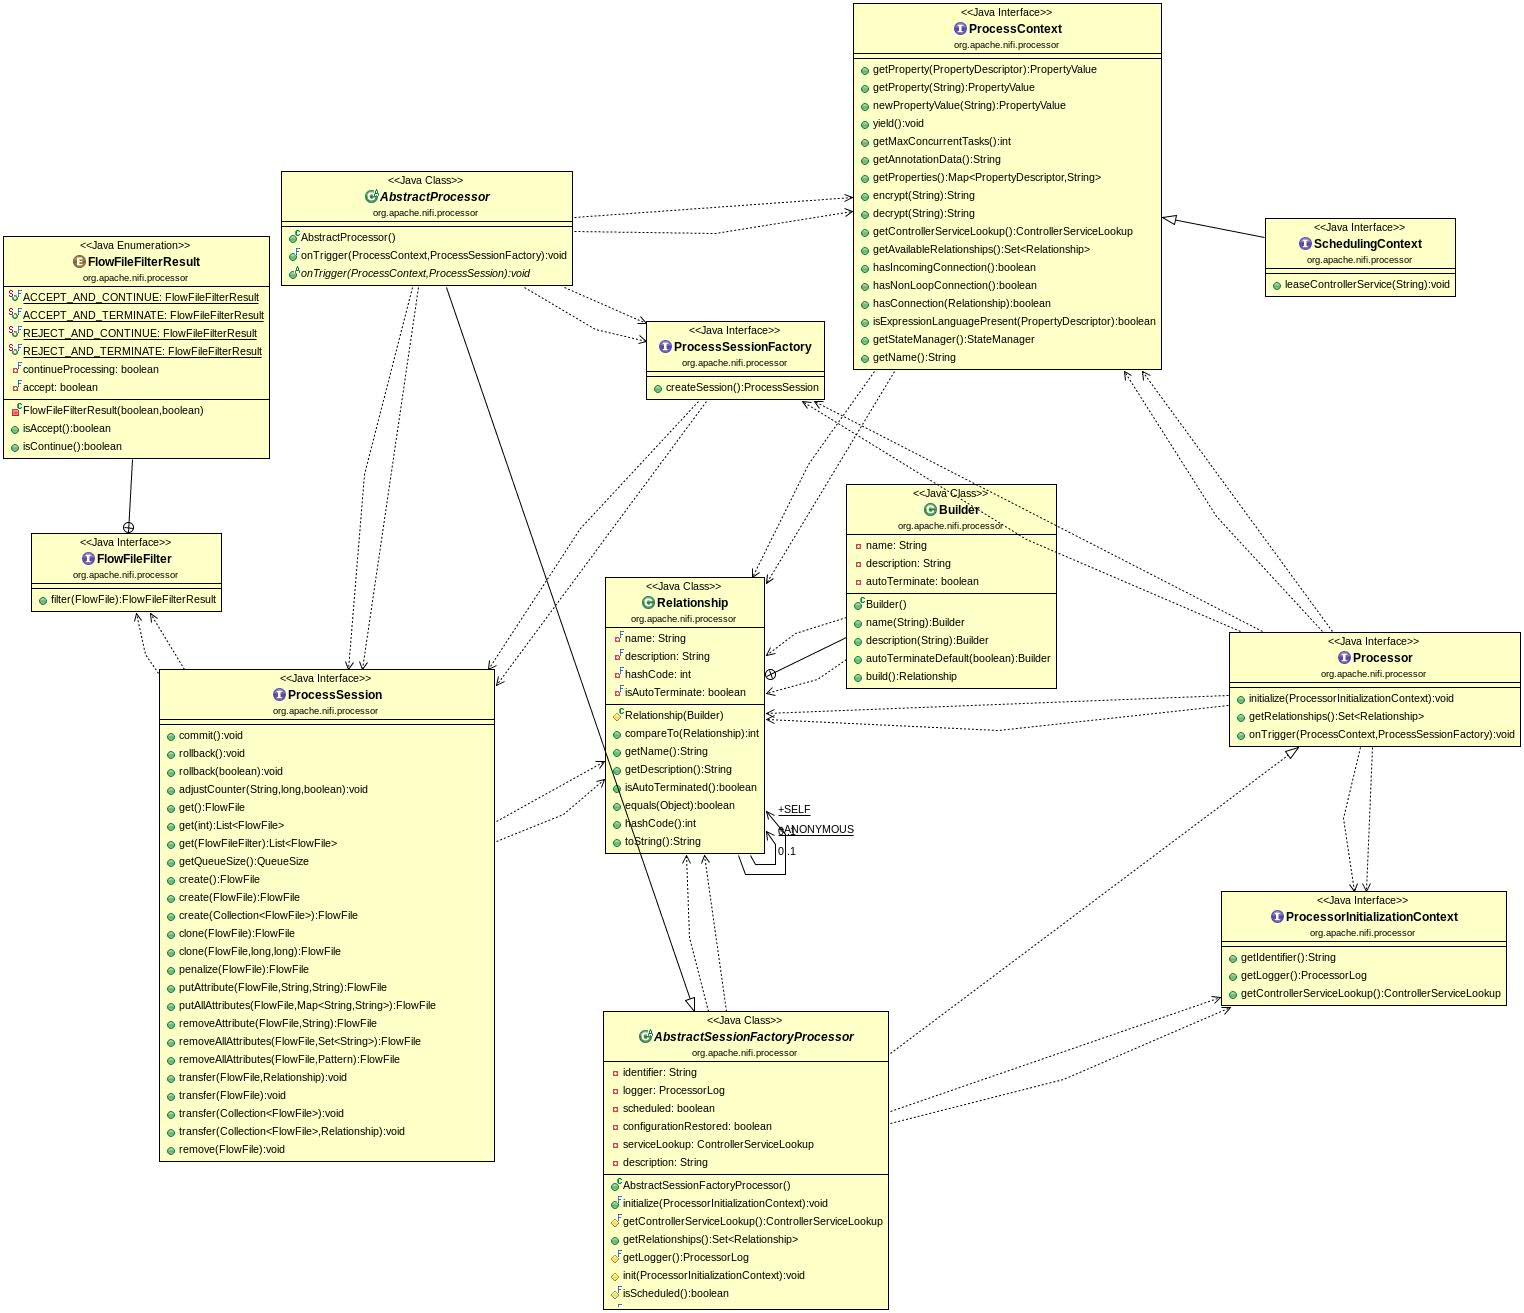
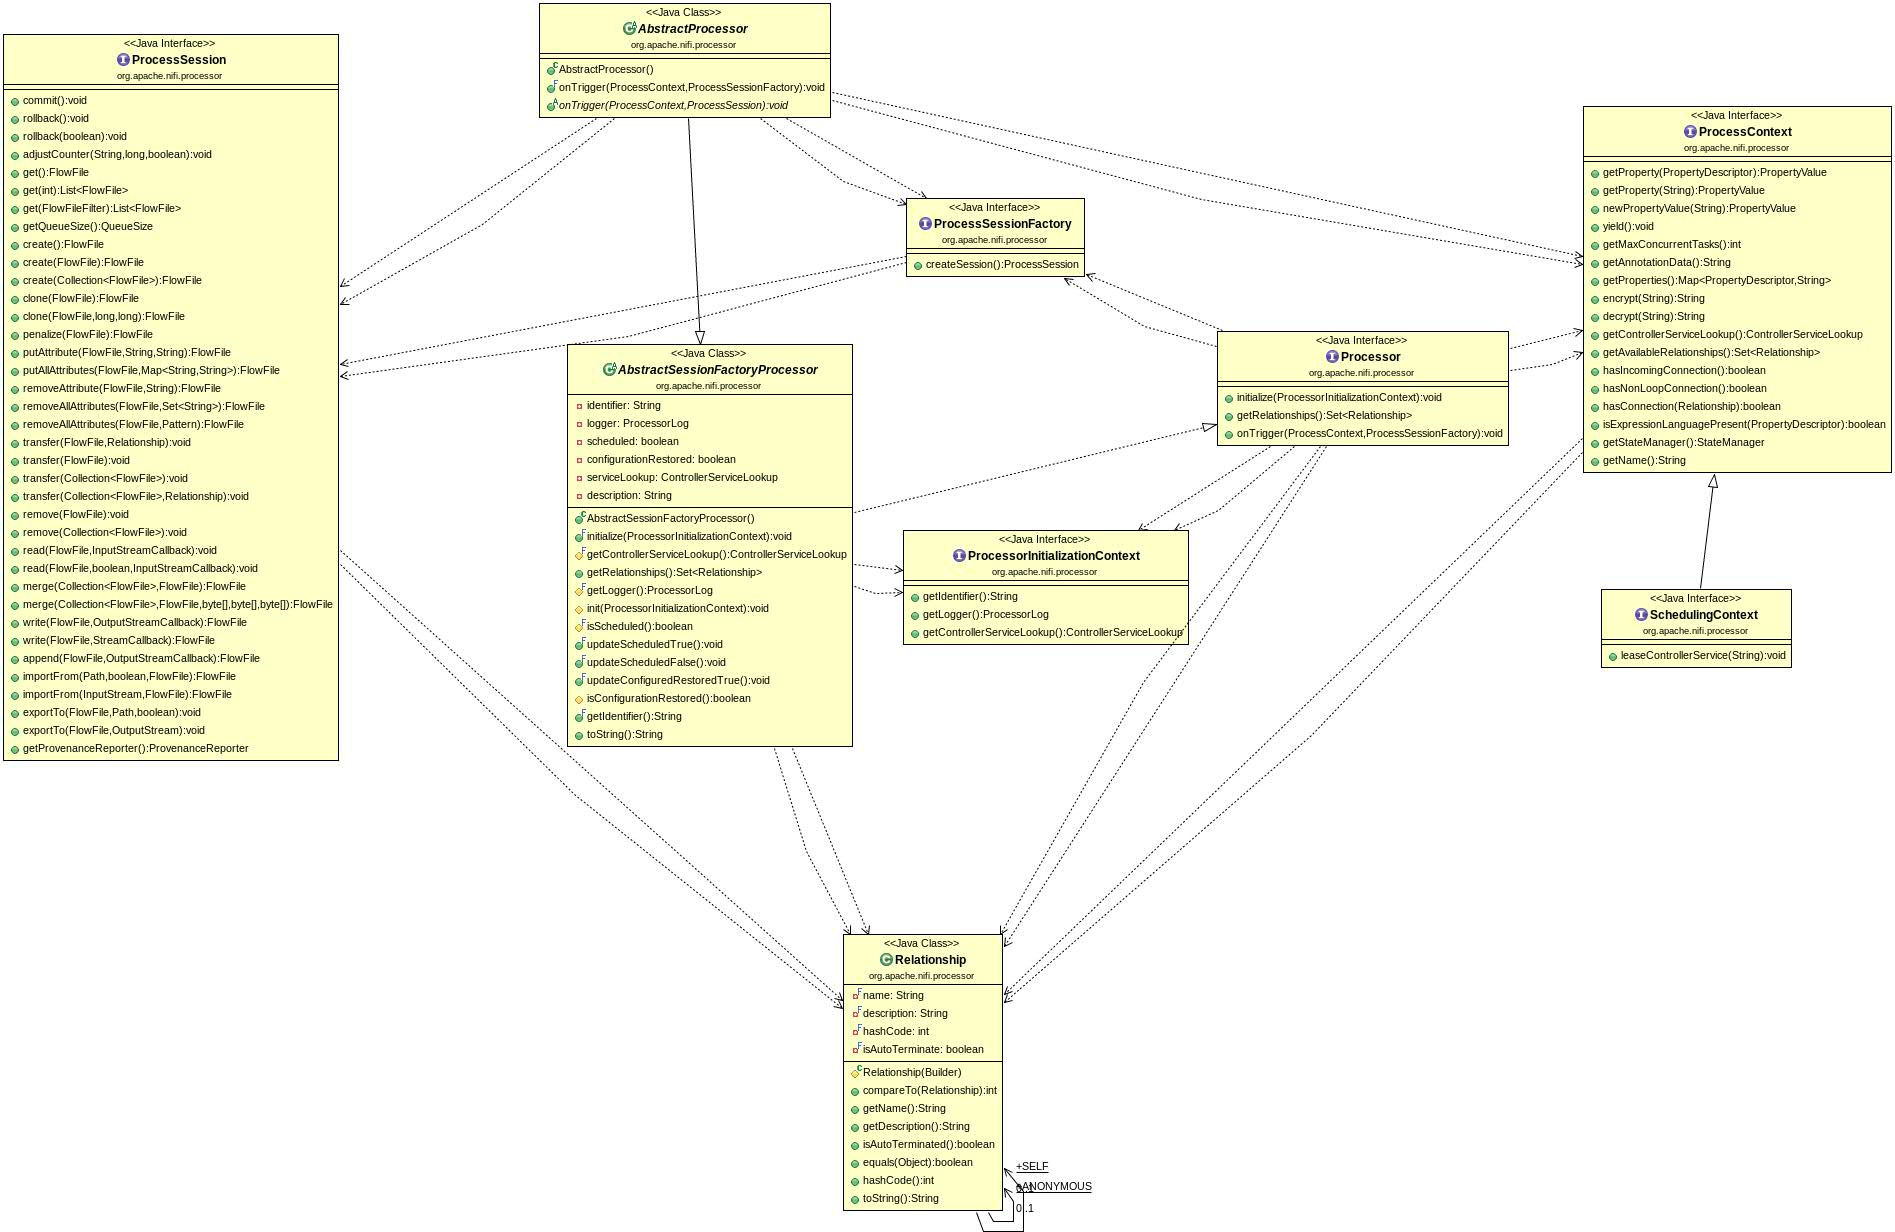
Class diagram explanation and development

diff --git a/ArchSW-docs/README_EN.md b/ArchSW-docs/README_EN.md
@@ -54,32 +54,55 @@ Since Nifi is a real complex system, in some diagrams we had to focus on the mos
 ####Logical View
 ######Class Diagram
 
-Has the class diagram is the moste complex of them all, we just focused on the processor api
+Classes:
+-------------------FlowFileFilter
+-)))))))ProcessSession
+-)))))))AbstractProcessor
+-)))))))ProcessSessionFactory
+-)))))))Relationship
+-)))))))ProcessContext
+-SchedulingContext
+-)))))))ProcessorInitializationContext
+-AbstractSessionFactoryProcessor
 
-![alt tag](https://github.com/Jointome/nifi/blob/master/ArchSW-docs/classdiagram.jpg)
+Has the class diagram is the most complex of all diagrams, we just focused on the Processor API. The Processor is the most important part of nifi, because is the only Component to which access is given to create, remove, modify, or inspect FlowFiles (data and attributes). So next come the classes on the Processor API and what they do.
+
+- The AbstractProcessor is the base class for all Processor Implementation, it provides several methods that will be of interest to Processor developers.
+
+- The ProcessSession class, provides a mechanism by which FlowFiles can be created, destroyed, examined, cloned, and transferred to other Processors. 
+
+- The ProcessContext provides information about how the Processor is currently configured making a connection between a Processor and the framework. Furthermore it allows the processor to perform Framework-specific tasks, has controling other Processors resoucers, to avoid consumig unnecessary resources.
+
+- The ProcessSessionFactory creates the ProcessSession from the AbstractProcessor or the Processor classes.
+
+- The Relationships define the routes to which a FlowFile may be transfered from a Processor. 
+
+- The ProcessorInitializationContext exposes configuration to the Processor that doesn't change throughout the Processor life, like the unique identifier of the Processor.
+
+![alt tag](https://github.com/Jointome/nifi/blob/master/ArchSW-docs/Images/classdiagram.jpg)
 
 ####Development View
 
 The component diagram is used to represent components, ports, interfaces and relationships between all of the previously mentioned to form larger components and/or software systems. 
 
 ######Component Diagram
-![alt tag](https://github.com/Jointome/nifi/blob/master/ArchSW-docs/component.png)
+![alt tag](https://github.com/Jointome/nifi/blob/master/ArchSW-docs/Images/component.png)
 
 ######Package Diagram
 
-![alt tag](https://github.com/Jointome/nifi/blob/master/ArchSW-docs/packagediagram.jpg)
+![alt tag](https://github.com/Jointome/nifi/blob/master/ArchSW-docs/Images/packagediagram.jpg)
 
 ####Process  View
 ######Activity Diagram
 
-![alt tag](https://github.com/Jointome/nifi/blob/master/ArchSW-docs/process.JPG)
+![alt tag](https://github.com/Jointome/nifi/blob/master/ArchSW-docs/Images/process.JPG)
 
 ####Physical View
 ######Deployment Diagram
 
-![alt tag](https://github.com/Jointome/nifi/blob/master/ArchSW-docs/deployment.png)
+![alt tag](https://github.com/Jointome/nifi/blob/master/ArchSW-docs/Images/deployment.png)
 
 
 ####Scenarios
 ######Use Cases
-![alt tag](https://github.com/Jointome/nifi/blob/master/ArchSW-docs/scenarios.png)
+![alt tag](https://github.com/Jointome/nifi/blob/master/ArchSW-docs/Images/scenarios.png)
